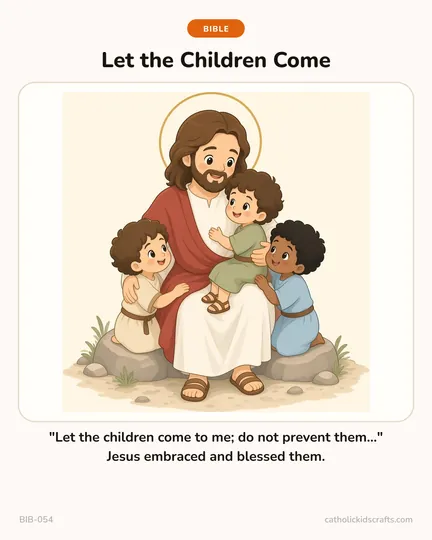
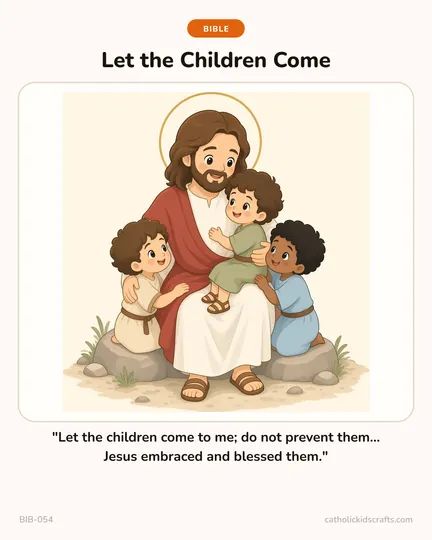
fix(cards): store Gospel captions without extra quotation marks
The opened card already wraps each caption in quotes. Keep the NABRE wording and let that wrapper be the only pair on the page, in the family questions, and on the card face.

Changed region(s): [[0.1204, 0.8, 0.9028, 0.8593]]

diff --git a/scripts/test-gospel-story-cards.ts b/scripts/test-gospel-story-cards.ts
@@ -9,7 +9,7 @@ import { hasCardOriginal, readCardOriginal } from "../src/lib/resource/card-orig
 import { relatedWorksheetForCard } from "../src/lib/resource/card-related";
 import { cardsForSunday, cardSeasons, getPictureCard, toCardListItem } from "../src/lib/resource/cards";
 import { unifiedSearch } from "../src/lib/resource/unified-search";
-import { cardTalk } from "../src/lib/seo/card-talk";
+import { cardPageSeo, cardTalk } from "../src/lib/seo/card-talk";
 
 const NABRE = {
   hand: "Stretch out your hand.",
@@ -21,7 +21,7 @@ const expected = [
   {
     id: "BIB-053",
     title: "The Man with the Withered Hand",
-    text: `"${NABRE.hand}" Doing good is always right.`,
+    text: `${NABRE.hand} Doing good is always right.`,
     ref: "Mk 3:1–6",
     sheet: "B_OT09",
     prio: 1,
@@ -31,7 +31,7 @@ const expected = [
   {
     id: "BIB-054",
     title: "Let the Children Come",
-    text: `"${NABRE.children}…" Jesus embraced and blessed them.`,
+    text: `${NABRE.children}… Jesus embraced and blessed them.`,
     ref: "Mk 10:13–16",
     sheet: "B_OT27",
     prio: 2,
@@ -41,7 +41,7 @@ const expected = [
   {
     id: "BIB-055",
     title: "Worth More than Many Sparrows",
-    text: `"${NABRE.sparrows}"`,
+    text: NABRE.sparrows,
     ref: "Mt 10:31",
     sheet: "A_OT12",
     prio: 1,
@@ -61,8 +61,10 @@ async function main() {
     assert.equal(card.ref, spec.ref);
     assert.equal(card.prio, spec.prio);
     assert.deepEqual(card.sheetKeys, [spec.sheet]);
-    assert.ok(card.text.includes(spec.id === "BIB-055" ? NABRE.sparrows : spec.id === "BIB-053" ? NABRE.hand : NABRE.children));
-    assert.ok(!/\b20\d{2}\b/.test(`${card.title} ${card.text}`), `${spec.id} must not print a year`);
+  const verse = spec.id === "BIB-055" ? NABRE.sparrows : spec.id === "BIB-053" ? NABRE.hand : NABRE.children;
+  assert.ok(card.text.includes(verse));
+  assert.equal(card.text.includes('"') || card.text.includes("“") || card.text.includes("”"), false, `${spec.id} caption is stored without quotes; the page adds one pair`);
+  assert.ok(!/\b20\d{2}\b/.test(`${card.title} ${card.text}`), `${spec.id} must not print a year`);
 
     const seasons = cardSeasons(card);
     assert.ok(seasons.includes("ordinary-time"), `${spec.id} seasons ${seasons.join(",")}`);
@@ -81,11 +83,22 @@ async function main() {
     assert.equal(related?.label, "Sunday Mass worksheet");
     assert.match(related?.href ?? "", /sunday-mass-worksheets/);
 
-    const talk = cardTalk(card);
-    assert.ok(talk);
-    assert.equal(talk.questions.length, 3);
-    assert.match(talk.questions[0], new RegExp(spec.ref.replace("–", "[–-]")));
-    assert.ok(talk.caption.includes(spec.id === "BIB-055" ? NABRE.sparrows : spec.id === "BIB-053" ? NABRE.hand : NABRE.children));
+  const talk = cardTalk(card);
+  assert.ok(talk);
+  assert.equal(talk.caption, card.text);
+  assert.equal(talk.questions.length, 3);
+  assert.match(talk.questions[0], new RegExp(spec.ref.replace("–", "[–-]")));
+  assert.equal(talk.questions[1], `The card says: "${card.text}" What does this show us about God?`);
+  const quoteBlock = `“${talk.caption}”`;
+  assert.equal(quoteBlock.split("“").length - 1, 1);
+  assert.equal(quoteBlock.split("”").length - 1, 1);
+  assert.equal(quoteBlock.includes('"'), false);
+  const seo = cardPageSeo(card);
+  const meta = `${seo.description} ${seo.intro.join(" ")} ${seo.questions.join(" ")}`;
+  assert.equal(/[“"]["“]/.test(meta), false, meta);
+  assert.equal(/["”]["”]/.test(meta), false, meta);
+  assert.ok(seo.description.includes(`"${verse.slice(0, 24)}`), seo.description);
+  assert.ok(seo.intro.join(" ").includes(`The card says: "${card.text}"`));
 
     const hits = unifiedSearch(spec.query, "ordinary-time", null);
     assert.ok(hits.some((h) => h.type === "card" && h.card.id === spec.id), `${spec.query} finds ${spec.id}`);
